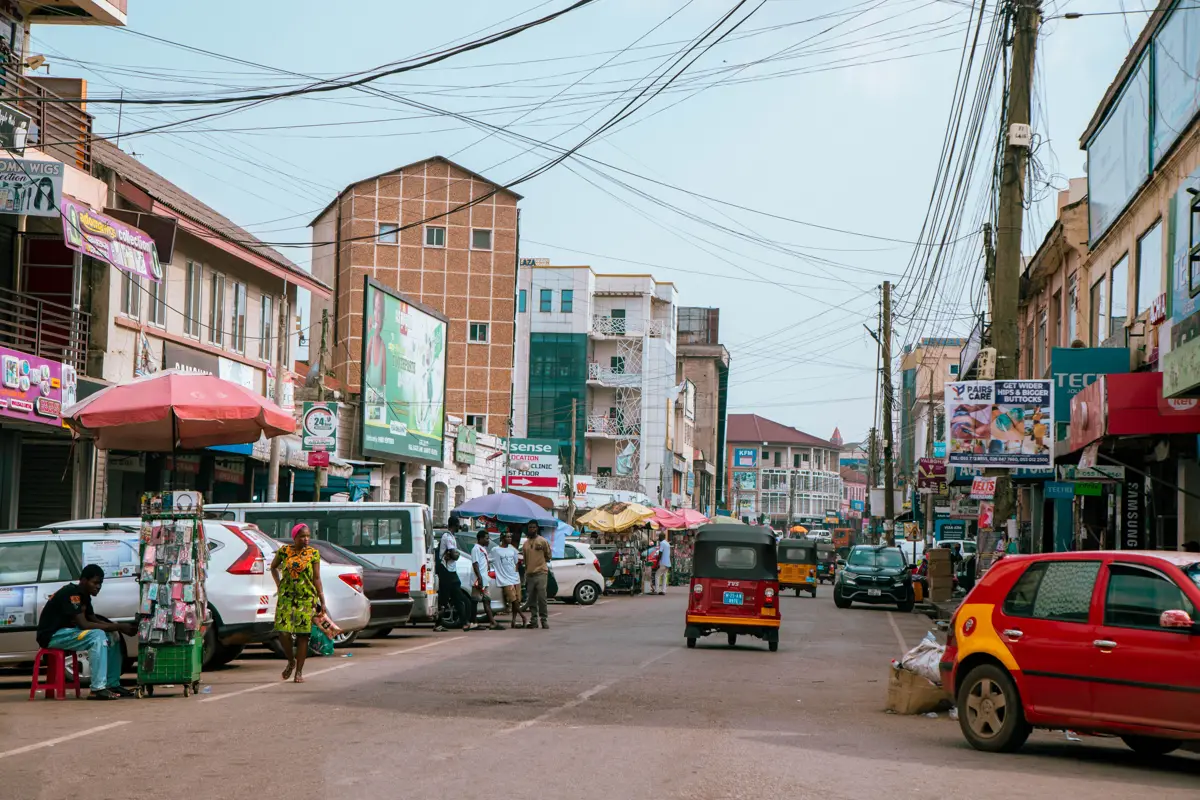
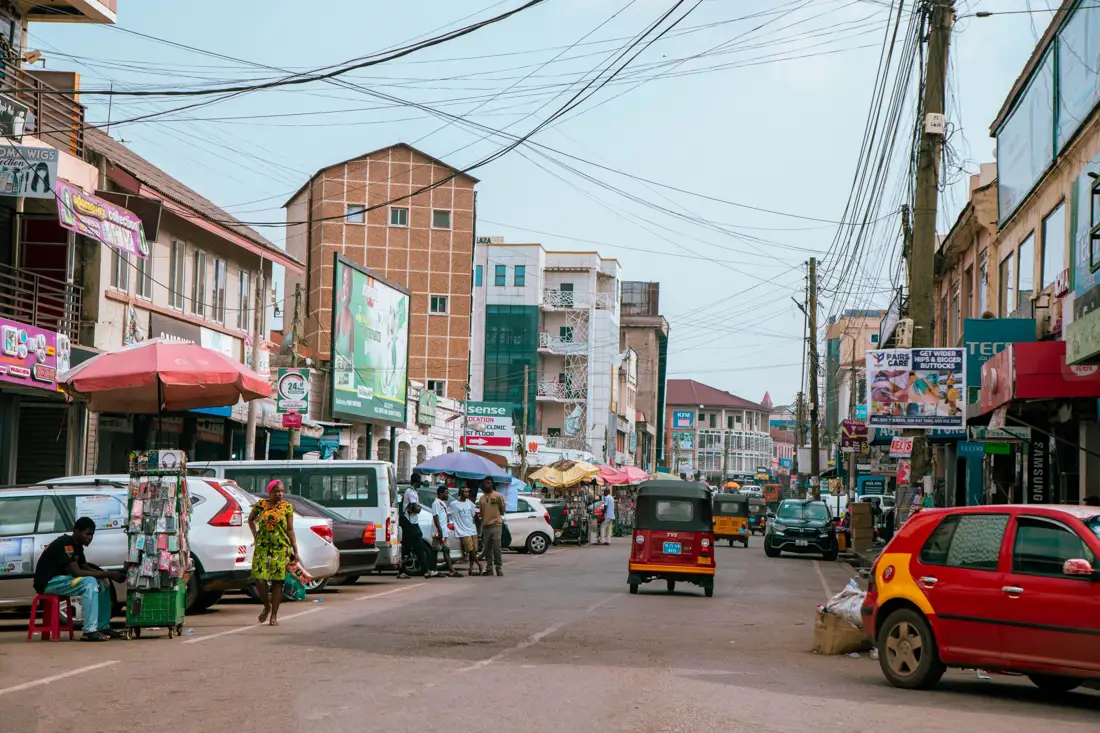
..

diff --git a/styles/place.css b/styles/place.css
@@ -9,10 +9,18 @@
     --font-body: 'Roboto', sans-serif;
 }
 
+html {
+    height: 100%;
+}
+
 body {
     font-family: var(--font-body);
     color: var(--color-text);
     background-color: var(--color-light);
+    min-height: 100vh;
+    height: 100%;
+    display: flex;
+    flex-direction: column;
 }
 
 header {
@@ -28,6 +36,7 @@ h1, h2 {
 
 main {
     display: grid;
+    flex: 1;
     grid-template-areas:
         "image"
         "data"
@@ -62,20 +71,6 @@ main {
     width: 1.2rem;
     height: 1.2rem;
     vertical-align: middle;
-}
-
-html, body {
-    height: 100%;
-}
-
-body {
-    display: flex;
-    flex-direction: column;
-    min-height: 100vh;
-}
-
-main {
-    flex: 1;
 }
 
 footer {

diff --git a/place.html b/place.html
@@ -3,7 +3,7 @@
 <head>
     <meta charset="UTF-8">
     <meta name="viewport" content="width=device-width, initial-scale=1.0">
-    <meta name="description" content="Takoradi is a city in Ghana.">
+    <meta name="description" content="Explore Takoradi, Ghana — key facts about the city including population, language, currency, and current weather conditions.">
     <meta name="author" content="Mike Chishala">
     <link rel="stylesheet" href="styles/place.css">
     <link rel="stylesheet" href="styles/place-larger.css">
